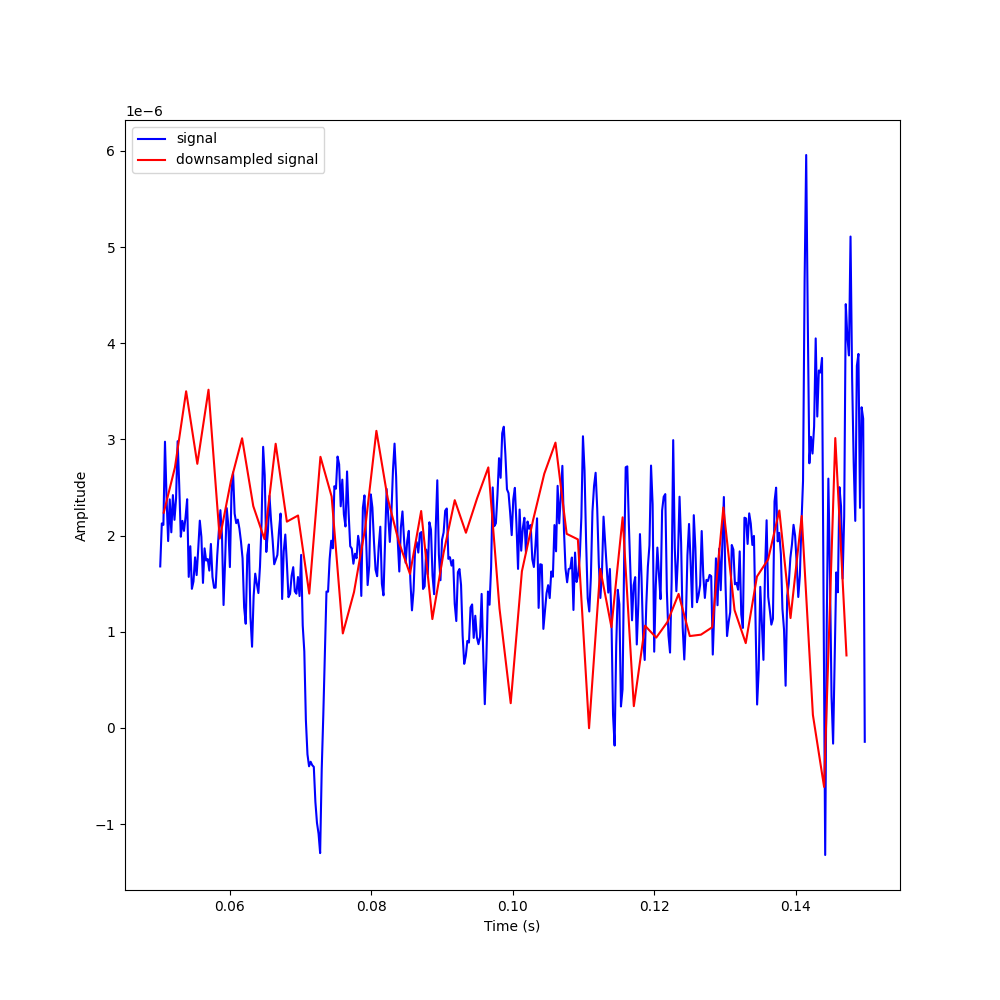
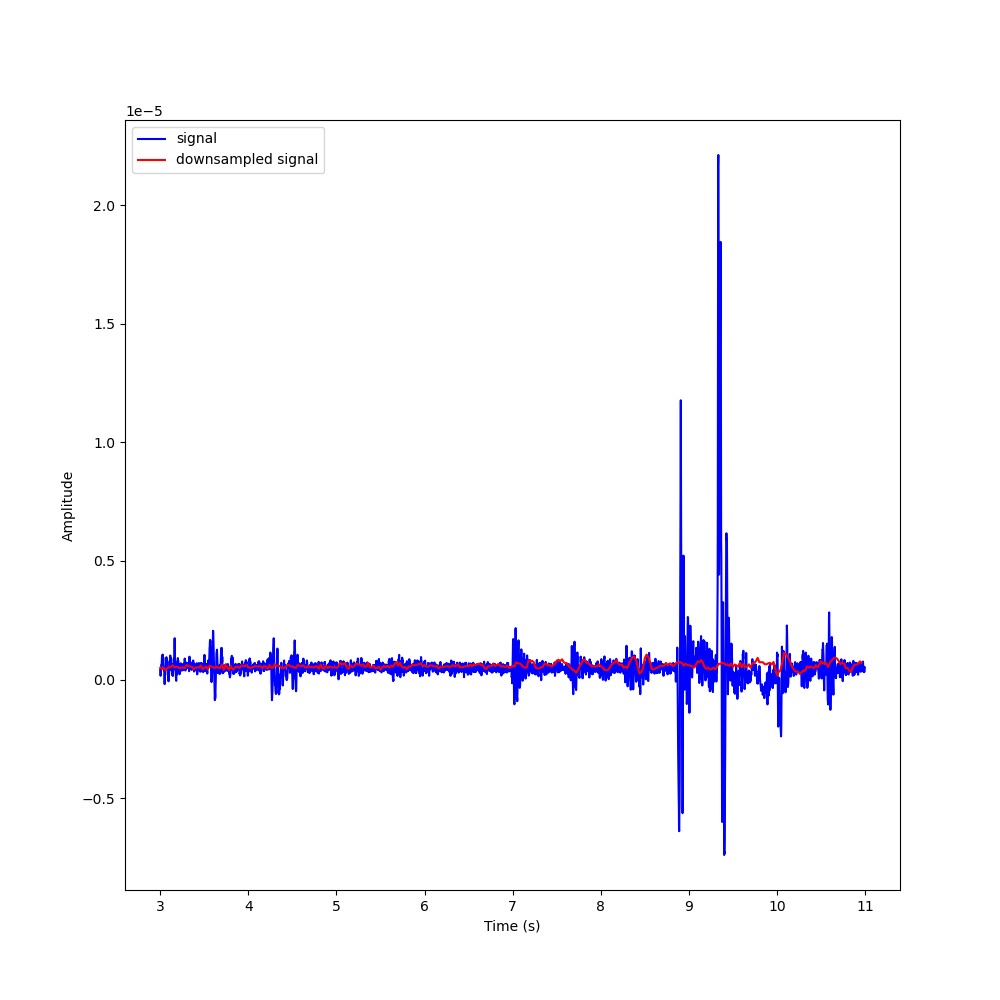
working on raster plots

diff --git a/SourceCode/lowpassDownsample.py b/SourceCode/lowpassDownsample.py
@@ -8,6 +8,7 @@ import warnings
 from scipy.fft import rfft, rfftfreq
 import sys
 import time
+import h5py
 plt.switch_backend('agg')
 
 
@@ -46,17 +47,41 @@ def runLowpassAndDownsample(integerDownsampleFactor):
     downsampled_time = np.linspace(0,sampling_duration,newNumSamples, endpoint=False);
     return (time,data_T,downsampled_time, downsampled_signal,sampling_freq)
 
-def plotAmplitudeSpectrum(signal,downsampledSignal,channelNumber,signalFreq):
-    signal = np.transpose(signal);
-    downsampledSignal = np.transpose(downsampledSignal);
+def runLowpassAndDownsampleWithFile(integerDownsampleFactor, fileName):
+    f = h5py.File(fileName, 'r')
+    #print list of attributes/metadata
+    #print(f.attrs.keys())
+    #print(f.keys())
+    group = f['data_product']
+    data = group['data'][()]
+    #print(data.shape)
+    dT = f.attrs['dt_computer']
+    #print(dT)
+    number_of_time_samples = f.attrs['nt']
+    #print(nT)
+    sampling_freq = 1/dT;
+    downsampled_sampling_freq = sampling_freq/integerDownsampleFactor
+    #print(sampling_freq)
+    data_T = np.transpose(data)
+    sampling_duration = number_of_time_samples * dT;
+    time = np.linspace(0, sampling_duration, number_of_time_samples, endpoint=False);
+    downsampled_signal = scipy.signal.decimate(data_T,integerDownsampleFactor);
+    newNumSamples = len(downsampled_signal[0]);
+    downsampled_time = np.linspace(0,sampling_duration,newNumSamples, endpoint=False);
+    return (time,data,downsampled_time, downsampled_signal,sampling_freq,downsampled_sampling_freq)
+    
+    
 
+def plotAmplitudeSpectrum(signal,downsampledSignal,channelNumber,signalFreq,downsampledFreq):
+    #signal = np.transpose(signal);
+    #downsampledSignal = np.transpose(downsampledSignal);
     plt.magnitude_spectrum(signal[:,channelNumber],Fs=signalFreq)
     plt.savefig('figures/ampSpectrum.png')
     plt.xlabel("Frequency (Hz)");
     plt.ylabel("Amplitude");
     plt.close()
 
-    plt.magnitude_spectrum(downsampledSignal[:,channelNumber],Fs=signalFreq)
+    plt.magnitude_spectrum(downsampledSignal[:,channelNumber],Fs=downsampledFreq)
     plt.savefig('figures/ampSpectrumDownsampled.png')
     plt.xlabel("Frequency (Hz)");
     plt.ylabel("Amplitude");
@@ -68,7 +93,7 @@ def plotAmplitudeSpectrum(signal,downsampledSignal,channelNumber,signalFreq):
     plt.ylabel("Log(Amplitude)");
     plt.close()
 
-    plt.magnitude_spectrum(downsampledSignal[:,channelNumber],Fs=signalFreq, scale='dB')
+    plt.magnitude_spectrum(downsampledSignal[:,channelNumber],Fs=downsampledFreq, scale='dB')
     plt.savefig('figures/logAmpSpectrumDownsampled.png')
     plt.xlabel("Frequency (Hz)");
     plt.ylabel("Log(Amplitude)");
@@ -86,7 +111,8 @@ def plotLowpass(time,signal,downsampleTime,downsampledSignal,channelNumber,start
     first_d = min(min(temp));
     temp = np.where(downsampleTime <= endTime);
     last_d = max(max(temp));
-
+    
+    
     fig = plt.figure(figsize=(10,10));
     plt.plot(time[first:last], signal[first:last,channelNumber], 'b-', label='signal')
     plt.plot(downsampleTime[first_d:last_d], downsampledSignal[first_d:last_d, channelNumber], 'r-', label='downsampled signal')

diff --git a/Examples/lowpassAndDownsampleTimingEx.py b/Examples/lowpassAndDownsampleTimingEx.py
@@ -3,7 +3,7 @@ import matplotlib.pyplot as plt
 import scipy.signal
 import sys
 sys.path.insert(1, '../SourceCode')
-import lowpass
+import lowpassDownsample
 from scipy.signal import iirfilter, zpk2sos, sosfilt
 import warnings
 import time
@@ -16,7 +16,7 @@ integerDownsampleFactor = 2;
 runs = 4;
 t1 = time.process_time();
 for i in range(runs):
-    (tm, signal, downsample_time, downsample_signal, sample_freq) = lowpass.runLowpassAndDownsample(integerDownsampleFactor);
+    (tm, signal, downsample_time, downsample_signal, sample_freq) = lowpassDownsample.runLowpassAndDownsample(integerDownsampleFactor);
 t2 = time.process_time();
 var.write("Average time of runLowpassAndDownsample(integerDownsampleFactor) with integer downsample factor of " + str(integerDownsampleFactor) + " and number of runs equal to " + str(runs) + "\n");
 avg = (t2-t1)/runs;
@@ -27,7 +27,7 @@ integerDownsampleFactor = 4;
 runs = 4;
 t1 = time.process_time();
 for i in range(runs):
-    (tm, signal, downsample_time, downsample_signal, sample_freq) = lowpass.runLowpassAndDownsample(integerDownsampleFactor);
+    (tm, signal, downsample_time, downsample_signal, sample_freq) = lowpassDownsample.runLowpassAndDownsample(integerDownsampleFactor);
 t2 = time.process_time();
 var.write("Average time of runLowpassAndDownsample(integerDownsampleFactor) with integer downsample factor of " + str(integerDownsampleFactor) + " and number of runs equal to " + str(runs) + "\n");
 avg = (t2-t1)/runs;
@@ -38,7 +38,7 @@ integerDownsampleFactor = 6;
 runs = 4;
 t1 = time.process_time();
 for i in range(runs):
-    (tm, signal, downsample_time, downsample_signal, sample_freq) = lowpass.runLowpassAndDownsample(integerDownsampleFactor);
+    (tm, signal, downsample_time, downsample_signal, sample_freq) = lowpassDownsample.runLowpassAndDownsample(integerDownsampleFactor);
 t2 = time.process_time();
 var.write("Average time of runLowpassAndDownsample(integerDownsampleFactor) with integer downsample factor of " + str(integerDownsampleFactor) + " and number of runs equal to " + str(runs) + "\n");
 avg = (t2-t1)/runs;
@@ -49,7 +49,7 @@ integerDownsampleFactor = 8;
 runs = 4;
 t1 = time.process_time();
 for i in range(runs):
-    (tm, signal, downsample_time, downsample_signal, sample_freq) = lowpass.runLowpassAndDownsample(integerDownsampleFactor);
+    (tm, signal, downsample_time, downsample_signal, sample_freq) = lowpassDownsample.runLowpassAndDownsample(integerDownsampleFactor);
 t2 = time.process_time();
 var.write("Average time of runLowpassAndDownsample(integerDownsampleFactor) with integer downsample factor of " + str(integerDownsampleFactor) + " and number of runs equal to " + str(runs) + "\n");
 avg = (t2-t1)/runs;

diff --git a/Examples/lowpassAndDownsampleEx.py b/Examples/lowpassAndDownsampleEx.py
@@ -3,7 +3,7 @@ import matplotlib.pyplot as plt
 import scipy.signal
 import sys
 sys.path.insert(1, '../SourceCode')
-import lowpass
+import lowpassDownsample
 from scipy.signal import iirfilter, zpk2sos, sosfilt
 import warnings
 import time
@@ -12,13 +12,13 @@ plt.switch_backend('agg')
 integerDownsampleFactor = 8;
 #Run lowpass filter and downsample 
 
-(time, signal, downsample_time, downsample_signal, sample_freq) = lowpass.runLowpassAndDownsample(integerDownsampleFactor);
+(time, signal, downsample_time, downsample_signal, sample_freq) = lowpassDownsample.runLowpassAndDownsample(integerDownsampleFactor);
 
 channelNumber = 50;
 startTime = 0.05;
 endTime = 0.15;
 
 #Plot lowpass filter on channelNumber
-lowpass.plotLowpass(time,signal,downsample_time,downsample_signal,channelNumber,startTime,endTime);
-lowpass.plotAmplitudeSpectrum(signal, downsample_signal, channelNumber, sample_freq);
+lowpassDownsample.plotLowpass(time,signal,downsample_time,downsample_signal,channelNumber,startTime,endTime);
+lowpassDownsample.plotAmplitudeSpectrum(signal, downsample_signal, channelNumber, sample_freq);
 

diff --git a/Examples/rasterPlotFileEx.py b/Examples/rasterPlotFileEx.py
@@ -1,0 +1,30 @@
+import numpy as np
+import matplotlib.pyplot as plt
+import scipy.signal
+import sys
+sys.path.insert(1, '../SourceCode')
+import lowpassDownsample
+from scipy.signal import iirfilter, zpk2sos, sosfilt
+import warnings
+import time
+import seaborn as sns
+from datashader import transfer_functions as tf, reductions as rd
+
+plt.switch_backend('agg')
+
+
+def main(argv):
+	fileName = argv[0]
+	integerDownsampleFactor = 10;
+	#Run lowpass filter and downsample 
+	(time, signal, downsample_time, downsample_signal, sample_freq, downsampled_sample_freq) = lowpassDownsample.runLowpassAndDownsampleWithFile(integerDownsampleFactor,fileName);
+	print(downsample_signal.shape, file=sys.stderr);
+	#img = plt.imshow(downsample_signal, aspect='auto',interpolation='none');
+	#plt.ylabel('Amp')
+	#plt.xlabel('Time')
+	img = ds.tf.shade(signal, cmap=fire, how='linear')
+export_image(img, "out", background="black", export_path="figures/")
+
+if __name__ == "__main__":
+	main(sys.argv[1:])
+

diff --git a/Examples/lowpassAndDownsampleFileEx.py b/Examples/lowpassAndDownsampleFileEx.py
@@ -1,0 +1,28 @@
+import numpy as np
+import matplotlib.pyplot as plt
+import scipy.signal
+import sys
+sys.path.insert(1, '../SourceCode')
+import lowpassDownsample
+from scipy.signal import iirfilter, zpk2sos, sosfilt
+import warnings
+import time
+plt.switch_backend('agg')
+
+
+def main(argv):
+	fileName = argv[0]
+	integerDownsampleFactor = 10;
+	#Run lowpass filter and downsample 
+
+	(time, signal, downsample_time, downsample_signal, sample_freq, downsampled_sample_freq) = lowpassDownsample.runLowpassAndDownsampleWithFile(integerDownsampleFactor,fileName);
+	channelNumber = 25;
+	startTime = 3.00;
+	endTime = 11.0;
+
+	#Plot lowpass filter on channelNumber
+	lowpassDownsample.plotLowpass(time,signal,downsample_time,downsample_signal,channelNumber,startTime,endTime);
+	lowpassDownsample.plotAmplitudeSpectrum(signal, downsample_signal, channelNumber, sample_freq,downsampled_sample_freq);
+if __name__ == "__main__":
+	main(sys.argv[1:])
+
